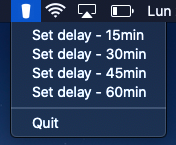
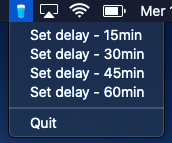
Changed trayicon library

diff --git a/lib.go b/lib.go
@@ -10,22 +10,22 @@ import (
 	"strconv"
 	"time"
 
-	"github.com/deckarep/gosx-notifier"
-	"github.com/tcnksm/go-latest"
+	gosxnotifier "github.com/deckarep/gosx-notifier"
 	"github.com/gen2brain/beeep"
-	"github.com/shurcooL/trayhost"
+	"github.com/getlantern/systray"
+	"github.com/tcnksm/go-latest"
 )
 
 func checkVersion(version, icon string) {
 	githubTag := &latest.GithubTag{
-		Owner:      "0xfederama",
-		Repository: "water-reminder",
+		Owner:             "0xfederama",
+		Repository:        "water-reminder",
 		FixVersionStrFunc: latest.DeleteFrontV(),
 	}
 
 	res, _ := latest.Check(githubTag, version)
 	if res.Outdated {
-		beeep.Alert("Water Reminder", "You should update to version "+ res.Current +". Visit github.com/0xfederama/water-reminder", icon)
+		sendNotif("Water Reminder", "You should update to version "+res.Current+". Visit github.com/0xfederama/water-reminder", icon)
 	}
 }
 
@@ -81,45 +81,6 @@ func readDelay(configFilePath string) int {
 	return minutes
 }
 
-func createTray(configFilePath, icon string) []trayhost.MenuItem {
-	menuItems := []trayhost.MenuItem{
-		{
-			Title: "Set delay - 15min",
-			Handler: func() {
-				writeDelay(configFilePath, "15")
-				sendNotif("Water Reminder", "Delay set to 15 min. Reload the app to apply changes", icon)
-			},
-		},
-		{
-			Title: "Set delay - 30min",
-			Handler: func() {
-				writeDelay(configFilePath, "30")
-				sendNotif("Water Reminder", "Delay set to 30 min. Reload the app to apply changes", icon)
-			},
-		},
-		{
-			Title: "Set delay - 45min",
-			Handler: func() {
-				writeDelay(configFilePath, "45")
-				sendNotif("Water Reminder", "Delay set to 45 min. Reload the app to apply changes", icon)
-			},
-		},
-		{
-			Title: "Set delay - 60min",
-			Handler: func() {
-				writeDelay(configFilePath, "60")
-				sendNotif("Water Reminder", "Delay set to 60 min. Reload the app to apply changes", icon)
-			},
-		},
-		trayhost.SeparatorMenuItem(),
-		{
-			Title:   "Quit",
-			Handler: trayhost.Exit,
-		},
-	}
-	return menuItems
-}
-
 func notify(config, icon, os string) {
 	//Send first notification
 	message := "Start drinking now"
@@ -161,4 +122,41 @@ func sendNotif(title, message, icon string) {
 		note.AppIcon = icon
 		note.Push()
 	}
+}
+
+func tray(icon []byte, iconString, configFilePath string) {
+	onExit := func() {}
+
+	onReady := func() {
+		systray.SetIcon(icon)
+		systray.SetTooltip("Water Reminder")
+		mDelay15 := systray.AddMenuItem("Set delay - 15min", "Set delay to 15 minutes")
+		mDelay30 := systray.AddMenuItem("Set delay - 30min", "Set delay to 30 minutes")
+		mDelay45 := systray.AddMenuItem("Set delay - 45min", "Set delay to 45 minutes")
+		mDelay60 := systray.AddMenuItem("Set delay - 60min", "Set delay to 60 minutes")
+		systray.AddSeparator()
+		mQuit := systray.AddMenuItem("Quit", "Close the app")
+
+		for {
+			select {
+			case <-mDelay15.ClickedCh:
+				writeDelay(configFilePath, "15")
+				sendNotif("Water Reminder", "Delay set to 15 min. Reload the app to apply changes", iconString)
+			case <-mDelay30.ClickedCh:
+				writeDelay(configFilePath, "30")
+				sendNotif("Water Reminder", "Delay set to 30 min. Reload the app to apply changes", iconString)
+			case <-mDelay45.ClickedCh:
+				writeDelay(configFilePath, "45")
+				sendNotif("Water Reminder", "Delay set to 45 min. Reload the app to apply changes", iconString)
+			case <-mDelay60.ClickedCh:
+				writeDelay(configFilePath, "60")
+				sendNotif("Water Reminder", "Delay set to 60 min. Reload the app to apply changes", iconString)
+			case <-mQuit.ClickedCh:
+				systray.Quit()
+				return
+			}
+		}
+	}
+
+	systray.Run(onReady, onExit)
 }

diff --git a/drink.go b/drink.go
@@ -5,8 +5,6 @@ import (
 	"os"
 	"path/filepath"
 	"runtime"
-
-	"github.com/shurcooL/trayhost"
 )
 
 var version string = "2.3"
@@ -38,8 +36,6 @@ func main() {
 		downloadFile("https://raw.githubusercontent.com/0xfederama/water-reminder/master/resources/water-glass.png", configIconPath)
 	}
 
-	menuItems := createTray(configFilePath, configIconPath)
-
 	go notify(configFilePath, configIconPath, OS)
 
 	// Load tray icon
@@ -47,7 +43,7 @@ func main() {
 	if err != nil {
 		return
 	}
-	trayhost.Initialize("Water Reminder", iconData, menuItems)
-	trayhost.EnterLoop()
+
+	tray(iconData, configIconPath, configFilePath)
 
 }
